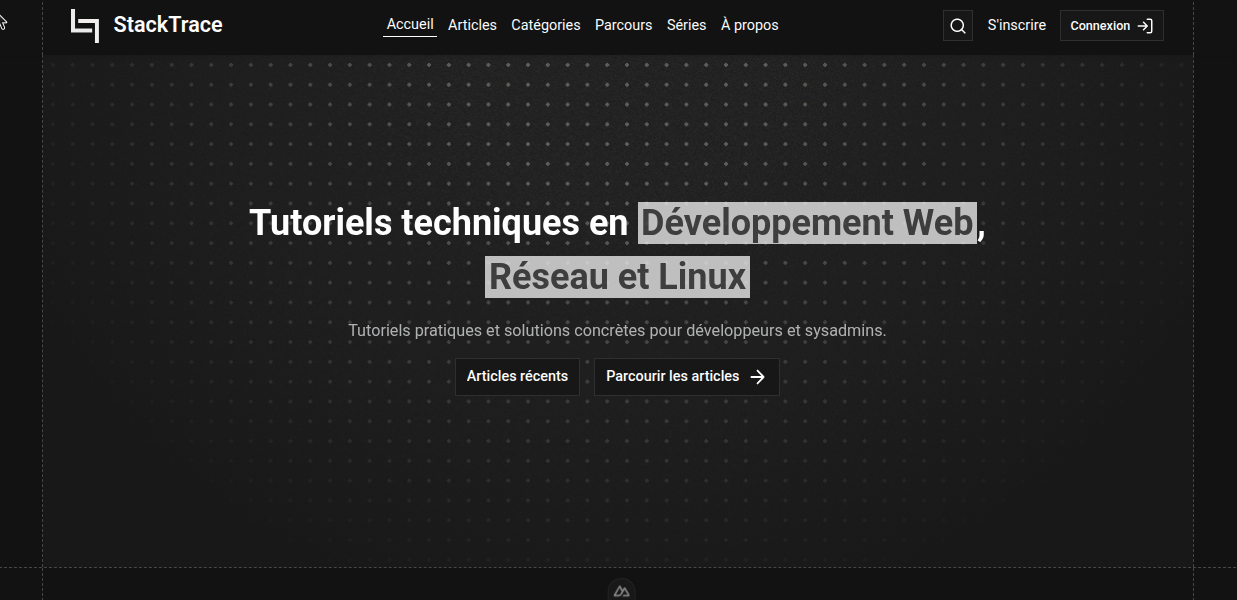
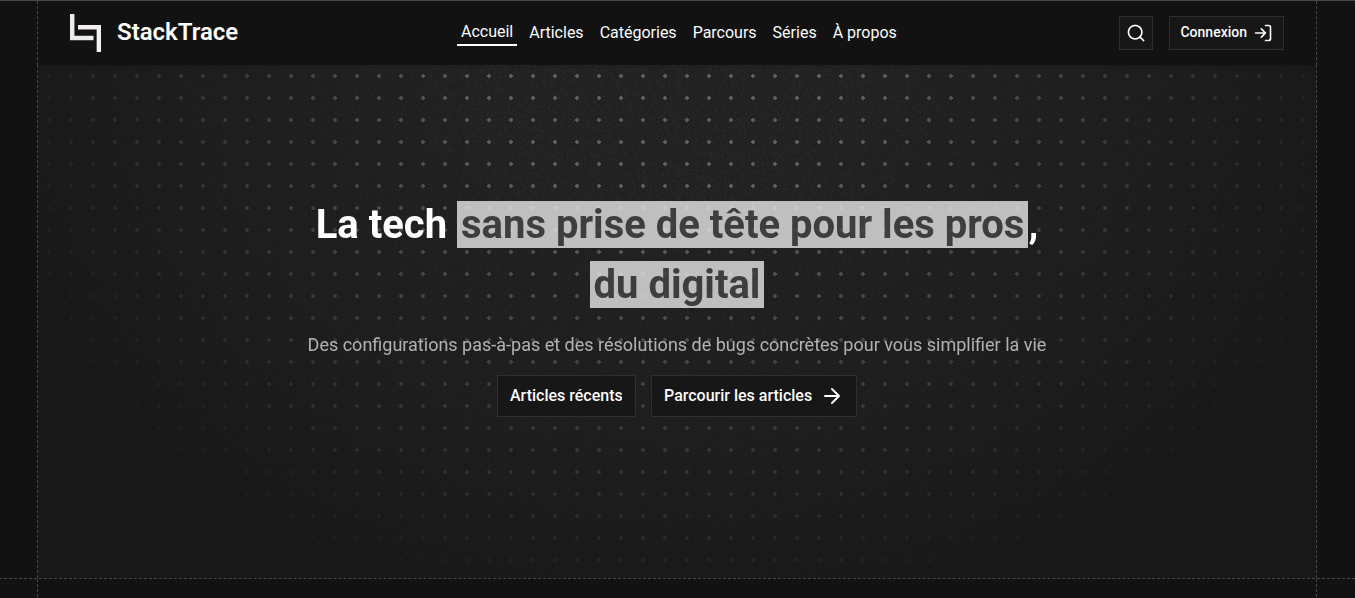
update

diff --git a/app/pages/index.vue b/app/pages/index.vue
@@ -17,7 +17,7 @@
                 <!-- Tutoriels techniques en -->
                 <span
                   class="hero-highlight bg-[#DEDEDE] bg-[#0F0F0F] opacity-85 text-[#414141] px-1"
-                >sans prise de tête pour les pros</span>, <br class="block sm:hidden md:block">
+                >sans prise de tête pour les pros</span> <br class="block sm:hidden md:block">
                 <span
                   class="hero-highlight bg-[#DEDEDE] bg-[#0F0F0F] opacity-85 text-[#414141] px-1"
                 >du digital</span>
